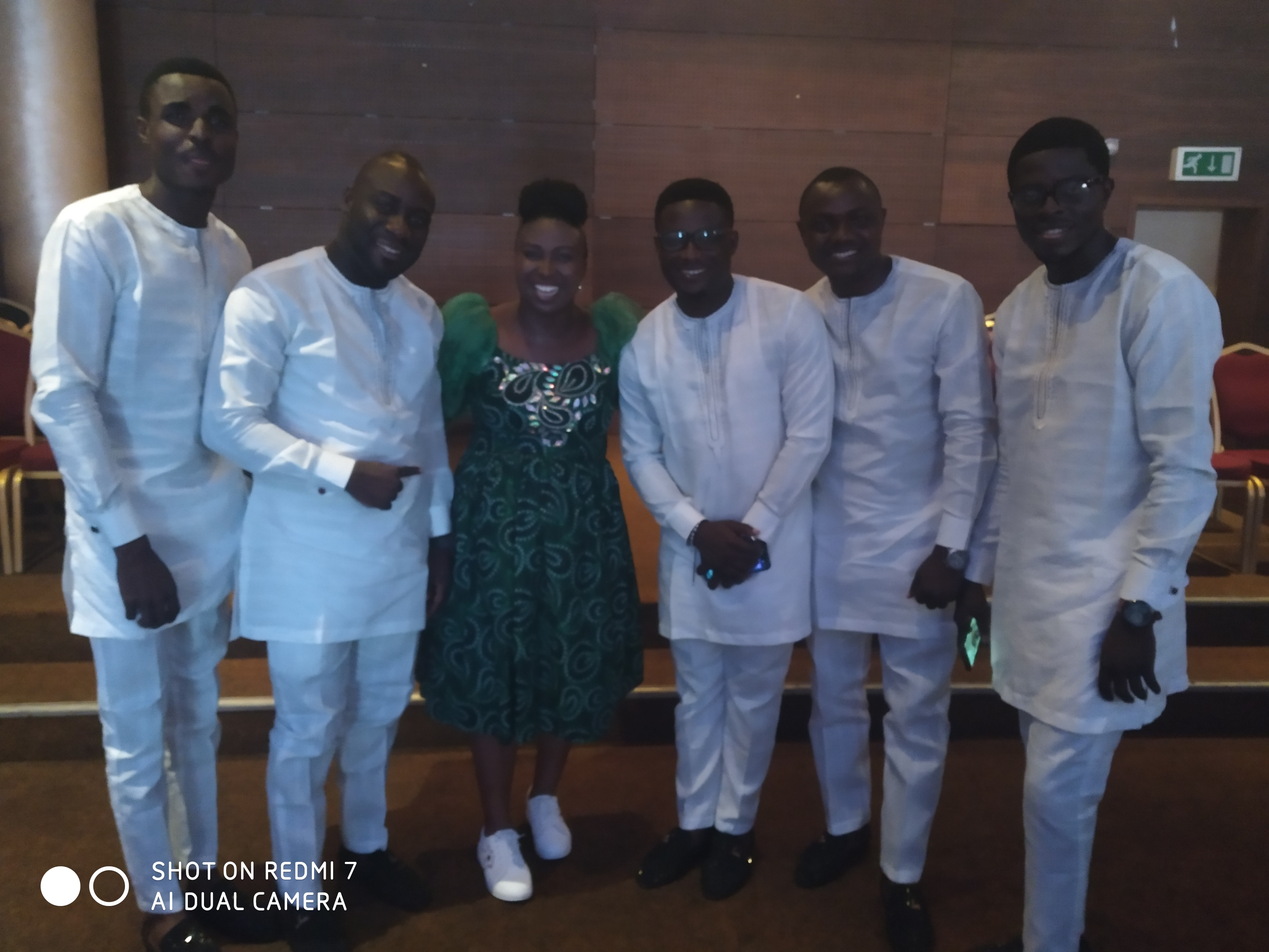
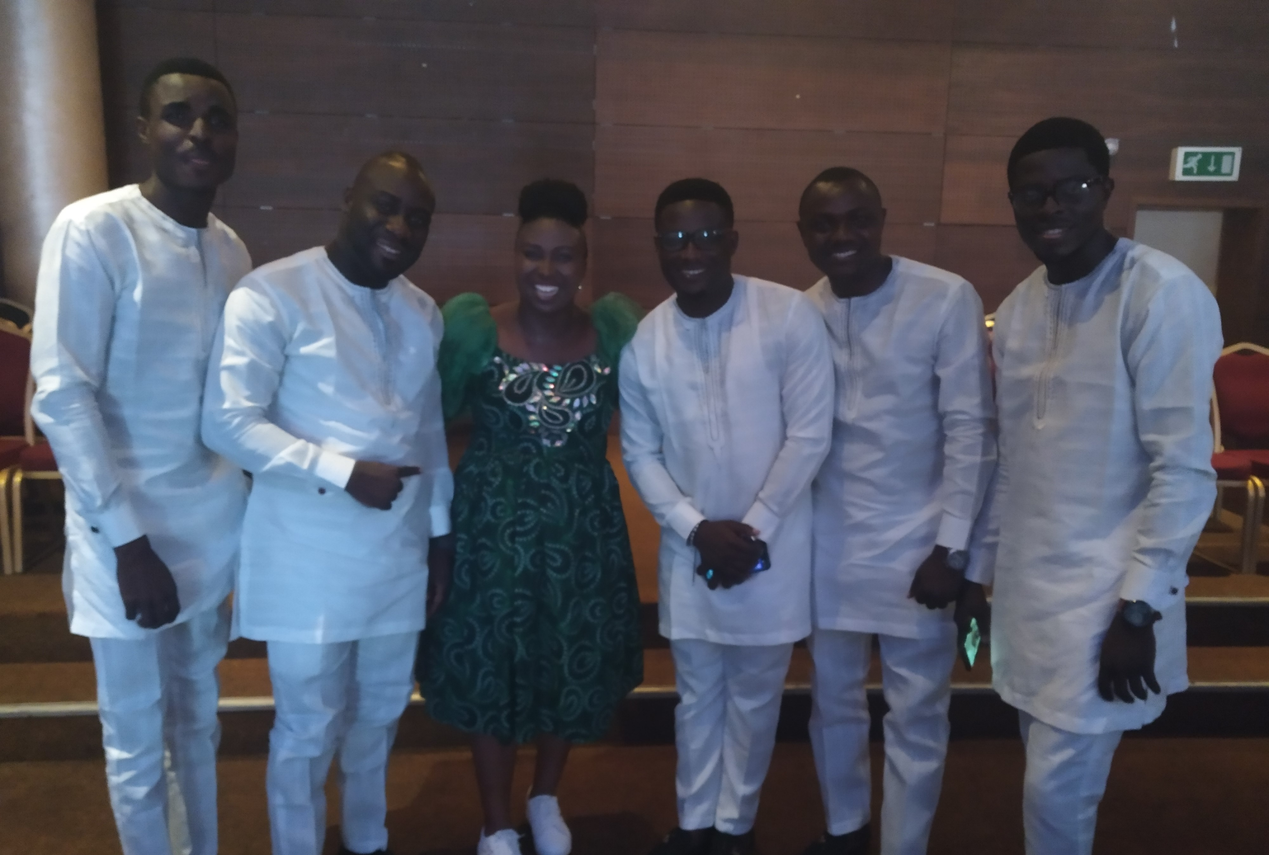
Cropped the photos that had phone's watermark

diff --git a/index.html b/index.html
@@ -258,27 +258,27 @@
             <div class="carousel-inner">
                 <div class="carousel-item active">
                     <img src="https://res.cloudinary.com/dltvs77fa/image/upload/v1721273033/IMG-20240717-WA0073_yztdqm.jpg" class="d-block w-100" alt="Slide 1">
-                    <div class="carousel-caption d-none d-md-block">
+                    <!-- <div class="carousel-caption d-none d-md-block">
                         <h5>Caption for Slide 1</h5>
-                    </div>
+                    </div> -->
                 </div>
                 <div class="carousel-item">
                     <img src="./assets/covers/cover2.jpg" class="d-block w-100" alt="Slide 2">
-                    <div class="carousel-caption d-none d-md-block">
+                    <!-- <div class="carousel-caption d-none d-md-block">
                         <h5>Caption for Slide 2</h5>
-                    </div>
+                    </div> -->
                 </div>
                 <div class="carousel-item">
                     <img src="https://res.cloudinary.com/dltvs77fa/image/upload/v1721273033/IMG-20240717-WA0074_mvxzdo.jpg" class="d-block w-100" alt="Slide 3">
-                    <div class="carousel-caption d-none d-md-block">
+                    <!-- <div class="carousel-caption d-none d-md-block">
                         <h5>Caption for Slide 3</h5>
-                    </div>
+                    </div> -->
                 </div>
                 <div class="carousel-item">
                     <img src="./assets/photos/22.jpg" class="d-block w-100" alt="Slide 4">
-                    <div class="carousel-caption d-none d-md-block">
+                    <!-- <div class="carousel-caption d-none d-md-block">
                         <h5>Caption for Slide 4</h5>
-                    </div>
+                    </div> -->
                 </div>
                 <!-- Add more slides as needed -->
             </div>
